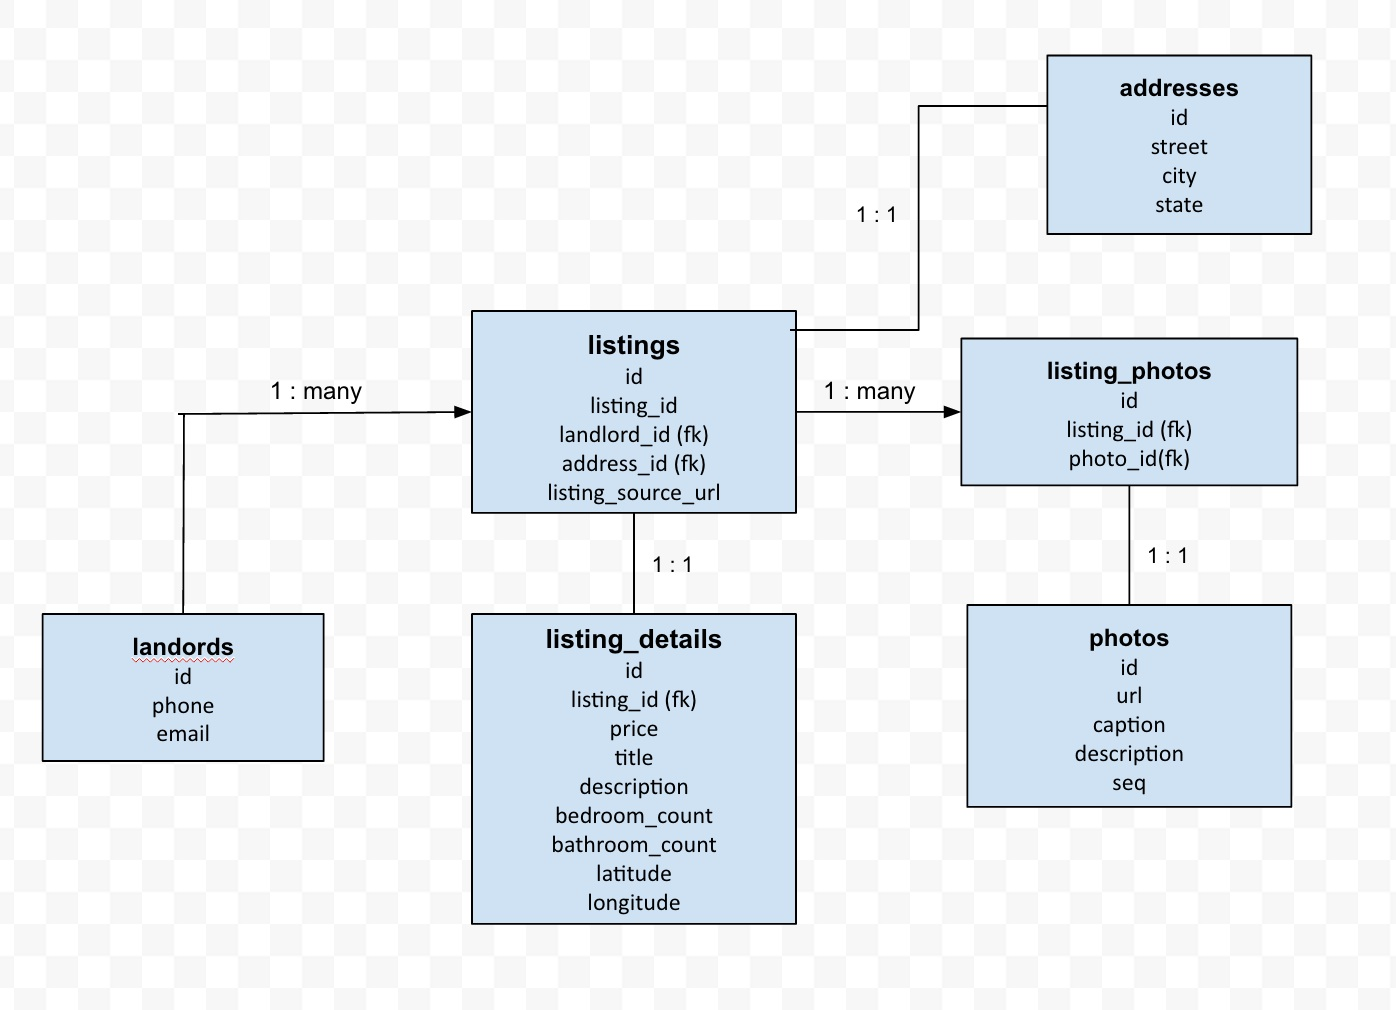
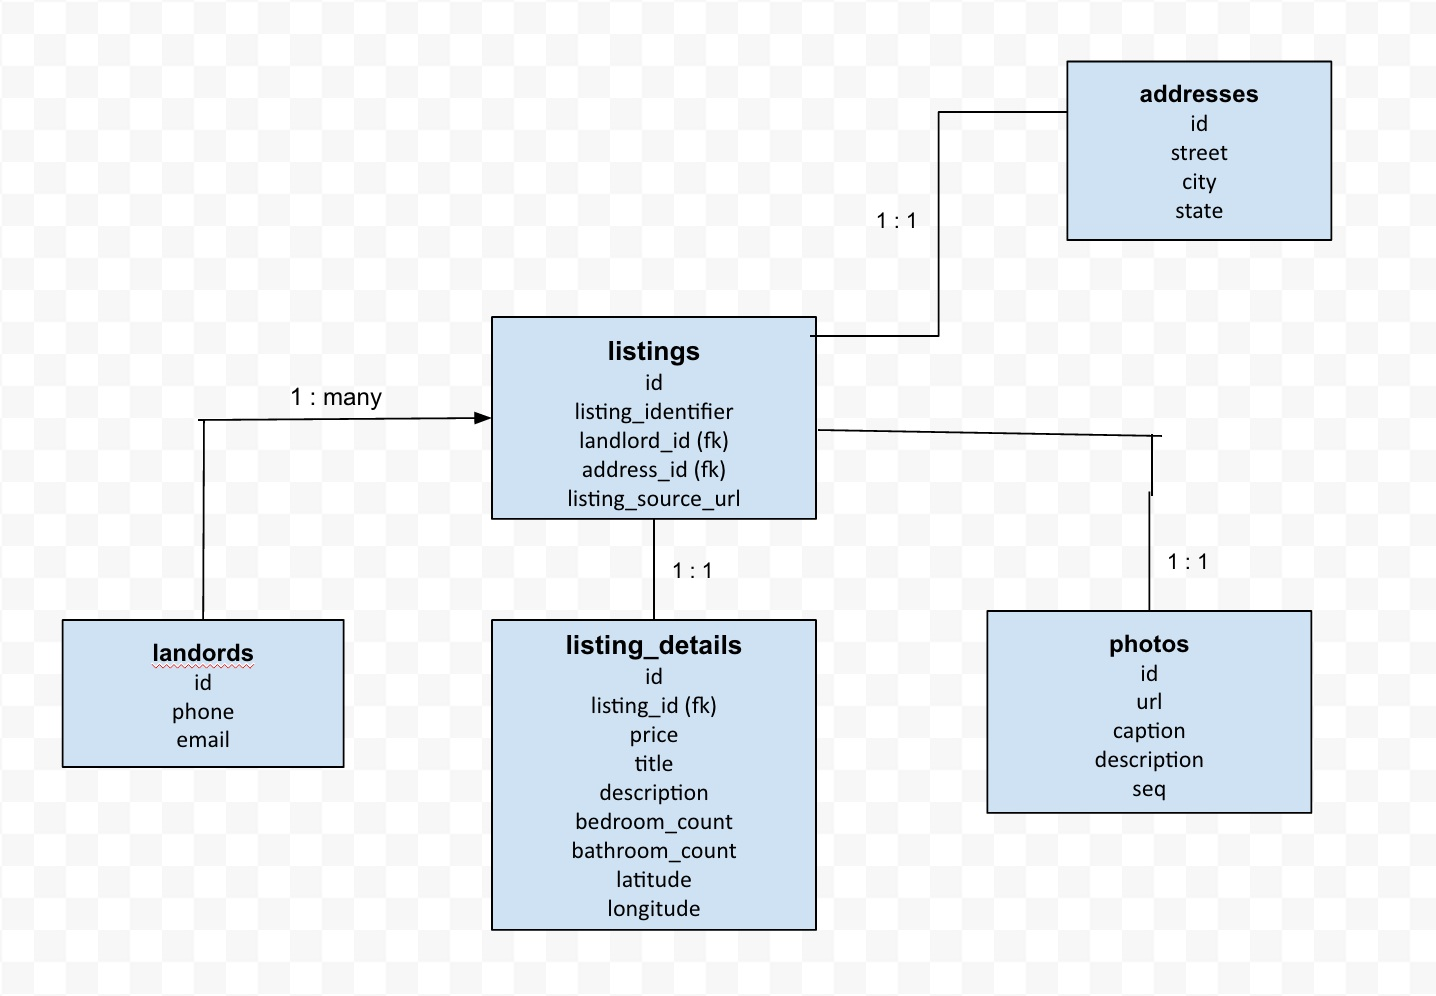
update readme

Changed region(s): [[0.0308, 0.0311, 0.9549, 0.7781], [0.3388, 0.5914, 0.5852, 0.9337], [0.6777, 0.5291, 0.9241, 0.8404]]

diff --git a/listings_web/db/schema.rb b/listings_web/db/schema.rb
@@ -54,14 +54,14 @@ ActiveRecord::Schema.define(:version => 201603310419000) do
     t.datetime "updated_at",         :null => false
   end
 
-  add_index "listings", ["listing_identifier"], :name => "index_listings_on_listing_identifier"
+  add_index "listings", ["listing_identifier"], :name => "index_listings_on_listing_identifier", :unique => true
 
   create_table "photos", :force => true do |t|
     t.string   "url"
     t.string   "caption"
     t.text     "description"
     t.integer  "seq"
-    t.integer  "listings_id"
+    t.integer  "listing_id"
     t.datetime "created_at",  :null => false
     t.datetime "updated_at",  :null => false
   end

diff --git a/README.md b/README.md
@@ -33,3 +33,11 @@ A rails app that processes property listing information from an xml feed.
 2. user profiles for logging in as viewer, landlord and admin
 
 3. UI to allow editing and updating information for landlords and admins
+
+#####Steps to install locally#####
+1. Clone repo
+2. set up DB
+  - rake db:create db:migrate db:seed db:test:prepare
+3. start up the rails server
+4. localhost:3000 should take you to the main listings page
+
